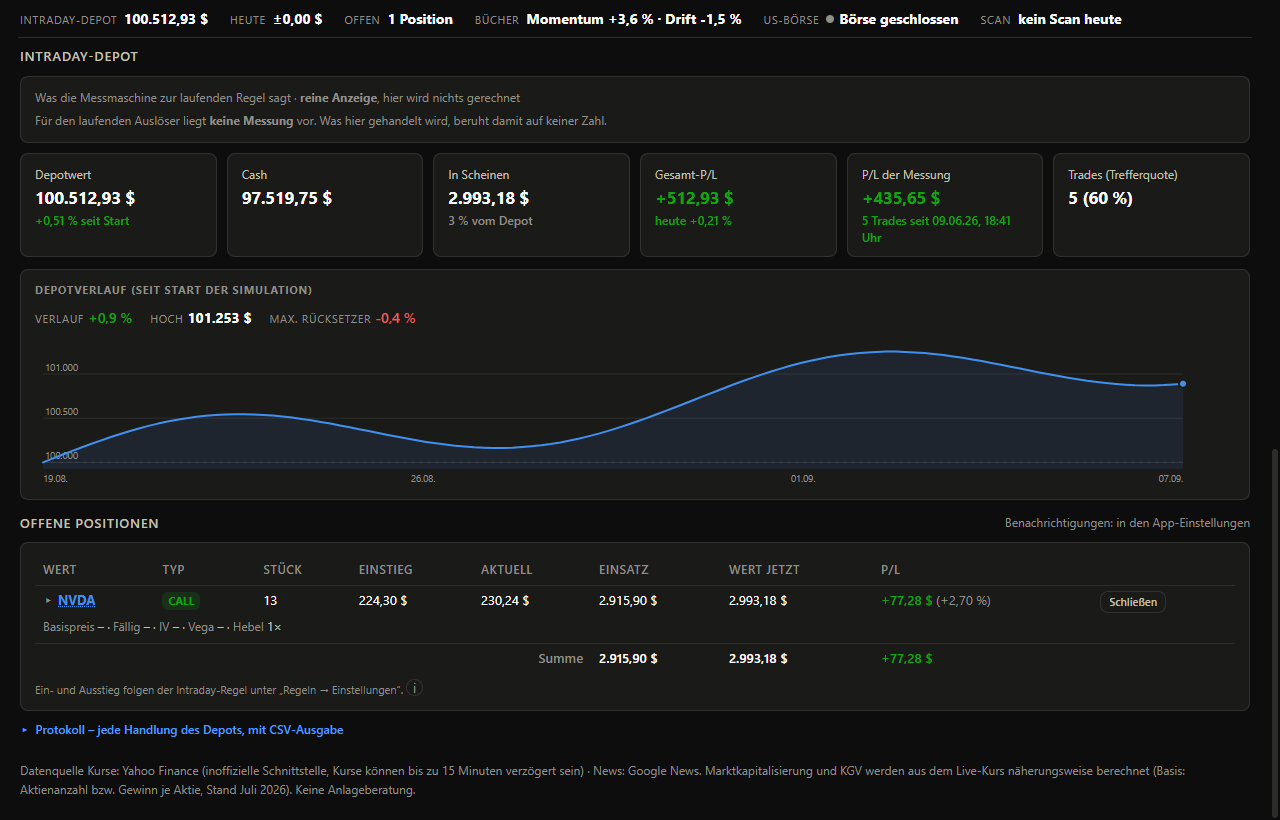
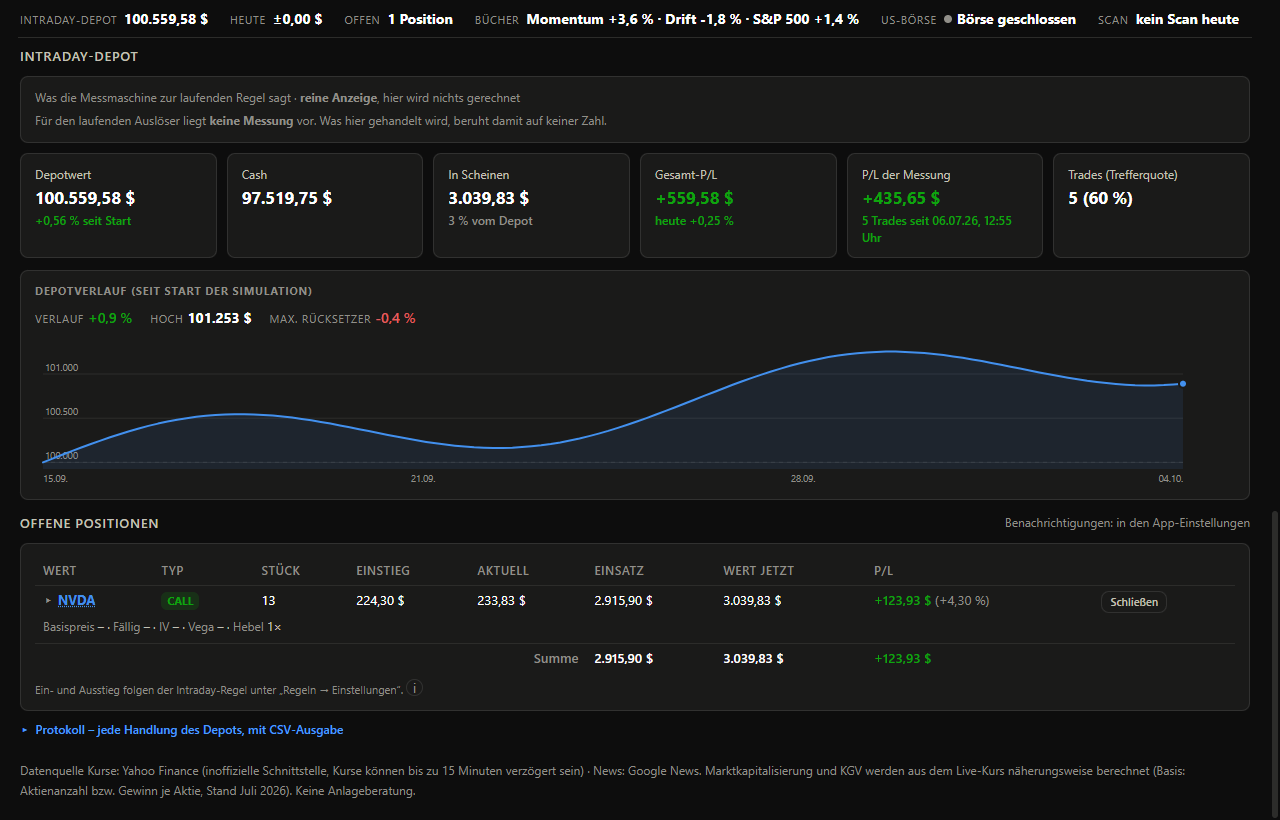
Aufnahmen erneuert (Nr. 81 Teil 4), Release-Notiz "App fertig", Kunst-Marktreihe glatt
wiki/aufnahmen/ neu erzeugt (tools/ui-struktur.js, isolierte Kunstdaten-Instanz,
Version 8.44.2): 28 Bilder und struktur.md. Gegenueber dem Stand vom 07.09.2026:
- Heute -> Ueberblick: die drei Buch-Karten tragen "Gegen den Markt" (S&P 500 als
  Gesamtertrag, mit Hinweis), das Momentum-Buch zusaetzlich den Rueckblick ueber fuenf
  Jahre; im Depotverlauf je Buch eine gestrichelte Marktlinie und die Zeilen darunter;
  im Kopf steht der S&P 500 neben den Buechern. Sichtbarer Text der Pille 4.378 ->
  6.536 Zeichen.
- Regeln -> Strategien: Rueckblick-Zeile auf der Antwort-Seite; Kapitulations-Dip mit
  "Neumessung: zurueckgewiesen".
- Markt -> Radar: nur noch ein Bild statt drei - die Gemeinschafts-Ablage fuehrt
  heute keine Eintraege (Inhalt der Quelle, kein Umbau).
Das Scoreboard steht in den Aufnahmen leer (die Kunstinstanz saet keine
Messprotokolle).

tools/kunstdepot.js: die erfundene bereinigte Marktreihe ist jetzt glatt (+1,4 % ueber
die 19 Tage) - mit dem Sprung am erfundenen Ex-Tag sah die Marktlinie aus wie ein Fehler.

Release-Notiz 2026-10-04-app-fertig.md; die Notiz zum Massstab (Nr. 73) sagt nicht mehr
"Markt ohne Ausschuettungen".

Nicht in diesem Auftrag gebaut: Ausschuettungen in den Buechern (Teil 2b) - der Weg ist
am Probeabruf bestaetigt, steht in der Uebergabe.

diff --git a/tools/kunstdepot.js b/tools/kunstdepot.js
@@ -180,19 +180,19 @@ function bauen(jetzt) {
  *  bereinigten SPY-Reihe, nicht mehr aus den im Verlauf abgelegten Tagesstaenden. Ohne
  *  diese Datei stuende die Kunstinstanz dauerhaft im Rueckfall ("Kursertrag") und
  *  keine Aufnahme zeigte den Normalfall.
- *  Gebaut wie eine echte bereinigte Reihe: derselbe erfundene Kursverlauf wie das Feld
- *  spy in bauen() (640 x (1 + 0,011 s)), dazu EINE erfundene Ausschuettung von 1,90
- *  neun Tage vor jetzt - jeder Balken davor ist um den Faktor (1 - 1,90 / Schluss am
- *  Vortag) kleiner. Ueber die 19 Tage des Kunstverlaufs steht der Markt damit als
- *  Gesamtertrag bei rund +1,4 % statt +1,1 %. Erfunden, keine Messung. */
+ *  Eine glatte erfundene Reihe: 640 x (1 + 0,014 s), ein Balken je Tag. Ueber die 19
+ *  Tage des Kunstverlaufs macht sie +1,4 % - 0,3 Prozentpunkte mehr als die im Verlauf
+ *  abgelegten Tagesstaende (640 x (1 + 0,011 s), +1,1 %). So viel macht eine
+ *  Ausschuettung aus: eine bereinigte Reihe laeuft ueber den Ex-Tag glatt weiter,
+ *  waehrend der unbereinigte Schluss um den Betrag faellt. Die Aufnahme zeigt damit
+ *  den Gesamtertrag und nicht denselben Wert wie der Rueckfall. Erfunden, keine Messung. */
 function marktReihe(jetzt) {
   var now = jetzt || Date.now();
-  function schluss(i) { return 640 * (1 + 0.011 * ((19 - i) / 19)); }   // i Tage vor jetzt; vor dem Verlauf laeuft die Gerade weiter
-  var EX = 9, faktor = 1 - 1.90 / schluss(EX + 1);
   var reihe = [];
   for (var i = 30; i >= 0; i--) {
-    /* Eine Stunde VOR dem Verlaufspunkt des Tages: jeder Punkt findet seinen Balken. */
-    reihe.push([now - i * TAG - 3600000, Math.round(schluss(i) * (i > EX ? faktor : 1) * 10000) / 10000]);
+    /* i Tage vor jetzt, eine Stunde VOR dem Verlaufspunkt des Tages: jeder Punkt findet
+     * seinen Balken. Vor dem Beginn des Verlaufs laeuft die Gerade einfach weiter. */
+    reihe.push([now - i * TAG - 3600000, Math.round(640 * (1 + 0.014 * ((19 - i) / 19)) * 10000) / 10000]);
   }
   return { at: now, reihe: reihe };
 }

diff --git a/wiki/aufnahmen/struktur.md b/wiki/aufnahmen/struktur.md
@@ -3,7 +3,7 @@ tags: [bauplan]
 ---
 # Struktur der Oberfläche — mit Aufnahmen
 
-*Erzeugt am 2026-09-07 von `tools/ui-struktur.js` aus der **laufenden** Oberfläche der Version **8.44.0** — nicht aus `index.html`. Instanz: isolierte Kunstdaten-Instanz (`tools/kunstinstanz.js`), 1280 px breit, ohne Netz; die Zahlen darin sind erfunden, die Struktur ist die echte. Wer die Oberfläche umbaut, fährt das Werkzeug danach einmal — ein Aufruf erneuert Bilder und Seite: `.\node_modules\.bin\electron.cmd tools\ui-struktur.js`.*
+*Erzeugt am 2026-10-04 von `tools/ui-struktur.js` aus der **laufenden** Oberfläche der Version **8.44.2** — nicht aus `index.html`. Instanz: isolierte Kunstdaten-Instanz (`tools/kunstinstanz.js`), 1280 px breit, ohne Netz; die Zahlen darin sind erfunden, die Struktur ist die echte. Wer die Oberfläche umbaut, fährt das Werkzeug danach einmal — ein Aufruf erneuert Bilder und Seite: `.\node_modules\.bin\electron.cmd tools\ui-struktur.js`.*
 
 **Was hier steht:** ▪ = Überschrift `h2`, · = Überschrift `h3`, ▸ = Klappe (`<details>`). Die Einrückung ist die echte Verschachtelung: eine Klappe **in** einer Klappe steht eine Stufe weiter rechts. `[#kennung]` ist die `id` des Blocks. „verborgen“ heißt: der Block steht in der Seite, ist aber ausgeblendet, bis etwas passiert (z. B. Explorer → „Kennzahlen“ erst nach dem Öffnen eines Werts).
 
@@ -21,7 +21,7 @@ Heute (data-tab="dashboard")
    │  ▸ Klappe: Positionen im Detail — Ergebnis-Drift  [in #buchDrift]
    │  · Intraday-Depot · die Kurzfrist-Regel, virtuelles Kapital  [in #buchIntraday]
    │  · Zuletzt getan – die jüngsten Handlungen aller Bücher  [in #bestandBlock]
-   │  · Depotverlauf – jedes Buch gegen sein eigenes Startkapital  [in #bestandBlock]
+   │  · Depotverlauf – jedes Buch gegen sein eigenes Startkapital, daneben der S&P 500  [in #bestandBlock]
    │  ▪ Intraday-Depot  [in #intradayBereich]
    │  · Depotverlauf (seit Start der Simulation)  [in #sub-depot]
    │  ▪ Offene Positionen  [in #sub-depot]
@@ -86,14 +86,14 @@ Werkzeuge (data-tab="werkzeuge")
 ├─ Schein-Finder (data-sub="scheine", #sub-scheine)
    │  · Schein-Finder · Kennzahlen und Risikostufe
 └─ Betrieb (data-sub="betrieb", #sub-betrieb)
-   │  ▸ Klappe: Kursarchiv  — Statuszeile: „jüngste Kerze 04.09.26, 22:00 Uhr“
+   │  ▸ Klappe: Kursarchiv  — Statuszeile: „jüngste Kerze 02.10.26, 22:00 Uhr“
    │    ▪ Kursarchiv – die App holt die feinen Kerzen selbst und legt sie ab.  [in #sub-archiv]
-   │  ▸ Klappe: Autopilot, Marktlage & Kursarchiv auffüllen  — Statuszeile: „Autopilot an · Nachtmessung 07.09.26 · Marktlage 07.09.26“
+   │  ▸ Klappe: Autopilot, Marktlage & Kursarchiv auffüllen  — Statuszeile: „Autopilot an · Nachtmessung 03.10.26 · Marktlage 04.10.26“
    │    · Autopilot & Datensammlung  [#abAutopilot]
    │    · Autopilot – die App verbessert sich selbst  [in #sub-auswertung]
    │    ▸ Klappe: Letzte Messung im Detail (Ranking, Empfehlung, Datenbasis)  [in #sub-auswertung]
-   │  ▸ Klappe: Kostenmessung Capital & Alpaca  — Statuszeile: „Runden Capital 2 · Alpaca 2 · letzte 05.09.26“
-   │  ▸ Klappe: Mittelfrist-Analyse & Bücher steuern  — Statuszeile: „Momentum an · Drift an · zuletzt geprüft 07.09.26“
+   │  ▸ Klappe: Kostenmessung Capital & Alpaca  — Statuszeile: „Runden Capital 2 · Alpaca 2 · letzte 02.10.26“
+   │  ▸ Klappe: Mittelfrist-Analyse & Bücher steuern  — Statuszeile: „Momentum an · Drift an · zuletzt geprüft 04.10.26“
    │    · Mittelfrist – Momentum & Ergebnis-Drift  [#abMittelfrist]
    │    · Momentum im Querschnitt · Aktien, keine Hebelscheine  [in #sub-mittelfrist]
    │    · Was jetzt zu halten wäre  [in #sub-mittelfrist]
@@ -135,7 +135,7 @@ Dialoge (gehören zu keinem Reiter)
 
 ### Heute → Überblick
 
-`#sub-ueberblick` · 13 Blöcke · 4378 Zeichen sichtbarer Text
+`#sub-ueberblick` · 13 Blöcke · 6536 Zeichen sichtbarer Text
 
 - ▪ Bestand  [in #bestandBlock]
 - · Momentum-Buch · stärkstes Zehntel, alle 63 Handelstage, 20 Bp je Seite  [in #buchMomentum]
@@ -144,7 +144,7 @@ Dialoge (gehören zu keinem Reiter)
 - ▸ Klappe: Positionen im Detail — Ergebnis-Drift  [in #buchDrift]
 - · Intraday-Depot · die Kurzfrist-Regel, virtuelles Kapital  [in #buchIntraday]
 - · Zuletzt getan – die jüngsten Handlungen aller Bücher  [in #bestandBlock]
-- · Depotverlauf – jedes Buch gegen sein eigenes Startkapital  [in #bestandBlock]
+- · Depotverlauf – jedes Buch gegen sein eigenes Startkapital, daneben der S&P 500  [in #bestandBlock]
 - ▪ Intraday-Depot  [in #intradayBereich]
 - · Depotverlauf (seit Start der Simulation)  [in #sub-depot]
 - ▪ Offene Positionen  [in #sub-depot]
@@ -168,7 +168,7 @@ Dialoge (gehören zu keinem Reiter)
 
 ### Markt → Überblick
 
-`#sub-marktueberblick` · 15 Blöcke · 7490 Zeichen sichtbarer Text
+`#sub-marktueberblick` · 15 Blöcke · 7539 Zeichen sichtbarer Text
 
 - ▪ Marktüberblick
 - ▪ Sektoren – nach Marktkapitalisierung gewichtet, Branchen aus den SEC-Stammdaten.
@@ -202,21 +202,19 @@ Dialoge (gehören zu keinem Reiter)
 
 ### Markt → Radar
 
-`#sub-beobachtung` · 3 Blöcke · 2674 Zeichen sichtbarer Text
+`#sub-beobachtung` · 3 Blöcke · 864 Zeichen sichtbarer Text
 
 - ▪ Spekulations-Radar – Gerüchte aus öffentlichen Quellen, dreimal täglich vor US-Eröffnung gesammelt. Gehandelt wird hiervon nichts.
 - ▪ Insider-Käufe – meldepflichtige Eigengeschäfte von Vorstand und Aufsichtsrat (SEC Form 4). Gehandelt wird hiervon nichts.
 - ▪ Vorbörsen-Lücken – Werte, die vor der US-Eröffnung deutlich anders stehen als beim gestrigen Schluss. Gehandelt wird hiervon nichts.
 
 ![[aufnahmen/markt/beobachtung-1.png]]
-![[aufnahmen/markt/beobachtung-2.png]]
-![[aufnahmen/markt/beobachtung-3.png]]
 
 ## Regeln
 
 ### Regeln → Strategien
 
-`#sub-regeln` · 8 Blöcke · 7162 Zeichen sichtbarer Text
+`#sub-regeln` · 8 Blöcke · 7451 Zeichen sichtbarer Text
 
 - · Was die App gerade tut  [in #antwortSeite]
 - · Die Strategien im Überblick
@@ -233,7 +231,7 @@ Dialoge (gehören zu keinem Reiter)
 
 ### Regeln → Einstellungen
 
-`#sub-einstellungen` · 8 Blöcke · 8680 Zeichen sichtbarer Text
+`#sub-einstellungen` · 8 Blöcke · 8943 Zeichen sichtbarer Text
 
 - · Intraday & Risiko  [#abIntraday]
 - · Intraday-Strategie  [in #sub-strategien]
@@ -272,16 +270,16 @@ Dialoge (gehören zu keinem Reiter)
 
 ### Werkzeuge → Betrieb
 
-`#sub-betrieb` · 34 Blöcke · 17300 Zeichen sichtbarer Text
+`#sub-betrieb` · 34 Blöcke · 17583 Zeichen sichtbarer Text
 
-- ▸ Klappe: Kursarchiv  — Statuszeile: „jüngste Kerze 04.09.26, 22:00 Uhr“
+- ▸ Klappe: Kursarchiv  — Statuszeile: „jüngste Kerze 02.10.26, 22:00 Uhr“
   - ▪ Kursarchiv – die App holt die feinen Kerzen selbst und legt sie ab.  [in #sub-archiv]
-- ▸ Klappe: Autopilot, Marktlage & Kursarchiv auffüllen  — Statuszeile: „Autopilot an · Nachtmessung 07.09.26 · Marktlage 07.09.26“
+- ▸ Klappe: Autopilot, Marktlage & Kursarchiv auffüllen  — Statuszeile: „Autopilot an · Nachtmessung 03.10.26 · Marktlage 04.10.26“
   - · Autopilot & Datensammlung  [#abAutopilot]
   - · Autopilot – die App verbessert sich selbst  [in #sub-auswertung]
   - ▸ Klappe: Letzte Messung im Detail (Ranking, Empfehlung, Datenbasis)  [in #sub-auswertung]
-- ▸ Klappe: Kostenmessung Capital & Alpaca  — Statuszeile: „Runden Capital 2 · Alpaca 2 · letzte 05.09.26“
-- ▸ Klappe: Mittelfrist-Analyse & Bücher steuern  — Statuszeile: „Momentum an · Drift an · zuletzt geprüft 07.09.26“
+- ▸ Klappe: Kostenmessung Capital & Alpaca  — Statuszeile: „Runden Capital 2 · Alpaca 2 · letzte 02.10.26“
+- ▸ Klappe: Mittelfrist-Analyse & Bücher steuern  — Statuszeile: „Momentum an · Drift an · zuletzt geprüft 04.10.26“
   - · Mittelfrist – Momentum & Ergebnis-Drift  [#abMittelfrist]
   - · Momentum im Querschnitt · Aktien, keine Hebelscheine  [in #sub-mittelfrist]
   - · Was jetzt zu halten wäre  [in #sub-mittelfrist]

diff --git a/release-notizen/2026-10-04-app-fertig.md b/release-notizen/2026-10-04-app-fertig.md
@@ -1,0 +1,9 @@
+# Der Maßstab zählt die Ausschüttungen des Marktes mit, der Rückblick steht am Momentum-Buch, und das Scoreboard zeigt Überholtes als überholt
+
+Der S&P 500 neben jedem Buch ist jetzt der Ertrag, den ein Anleger im Indexfonds wirklich bekommt – **mit** Ausschüttungen (beim SPY über die letzten sechs Monate +17,39 % statt +16,80 %); die Bücher selbst buchen noch keine Ausschüttungen, und genau das steht an jeder Stelle dabei: „Markt mit, Buch ohne Ausschüttungen – der Vergleich ist um die Ausschüttungen des Buchs zu streng". Fehlt die dafür nötige Kursreihe oder ist sie zu alt, zeigt die App sichtbar wieder den reinen Kursertrag und sagt, warum.
+
+An der Karte des Momentum-Buchs (Heute → Bestand) und auf der Seite Regeln → Strategien steht neu der **Rückblick über fünf Jahre**: die Regel des Buchs auf dem breiten Markt brachte +65,2 % gegen +81,2 % des S&P 500 – nicht geschlagen; je nach Starttag lag das Buch in 41 von 63 Fällen vorn, bei einem größten Rückschlag von −40,2 % gegen −24,5 %. Gemessen ist dabei der breite Markt (515 bis 923 Werte), nicht der engere Korb, den die App handelt.
+
+Im Scoreboard (Werkzeuge → Betrieb) steht das alte Messprotokoll des Kapitulations-Dips jetzt am Ende der Tabelle unter dem Kopf „Überholt durch Neumessung 03.10.2026 – in der behaupteten Größe zurückgewiesen", mit Fundstelle; es bleibt vollständig nachlesbar. Die Erklärtexte hinter den i-Knöpfen (Nacht-Messung, Experten-Einstellungen, Backtest) zählen den Kapitulations-Dip nicht mehr zu den „gemessenen Strategien", sondern sagen den Stand: neu gemessen und zurückgewiesen, per Voreinstellung aus.
+
+Alles bleibt Simulation mit virtuellem Kapital, keine Anlageberatung.

diff --git a/wiki/oberflaeche.md b/wiki/oberflaeche.md
@@ -285,8 +285,13 @@ Wilhelms Regel (entscheide.md, „Richtung des Projekts"): echtes Geld nur für 
   `berichte.js` steht keine eigene Prozentrechnung für ein Buch mehr (92.4); **kein zweiter Rechenweg für den Markt** (92.6): sechs
   Aufrufe von `Massstab.vergleich`, fünf mit der bereinigten Reihe aus einer Quelle, der Nasdaq als Kursindex; außerhalb von
   `massstab.js` liest niemand den abgelegten Marktstand; der Wortlaut der Beschriftung steht nur in `massstab.js`.
-- **Kunstinstanz:** `tools/kunstdepot.js` `marktReihe()` sät eine erfundene bereinigte Reihe mit einer Ausschüttung
-  (`drift_markt.json` im Test-Store) – die Aufnahmen zeigen den Normalfall (Gesamtertrag), nicht den Rückfall.
+- **Kunstinstanz:** `tools/kunstdepot.js` `marktReihe()` sät eine erfundene bereinigte Reihe (`drift_markt.json` im Test-Store,
+  glatt, +1,4 % über die 19 Tage des Kunstverlaufs gegen +1,1 % der abgelegten Tagesstände) – die Aufnahmen zeigen den
+  Normalfall (Gesamtertrag), nicht den Rückfall.
+- **Aufnahmen vom 04.10.2026** (`aufnahmen/`, nach Nr. 71, 73 und 81 neu erzeugt): `heute/ueberblick-1` zeigt die drei
+  Buch-Karten mit „Gegen den Markt" und am Momentum-Buch den Rückblick, `heute/ueberblick-2` den Depotverlauf mit den
+  gestrichelten Marktlinien, `regeln/regeln-1` die Antwort-Seite mit der Rückblick-Zeile. Das Scoreboard steht in den Aufnahmen
+  leer (die Kunstinstanz sät keine Messprotokolle); den Kopf über dem überholten Protokoll belegt der Textauszug in der Übergabe.
 
 ## 6c. Der Rückblick am Momentum-Buch (seit 04.10.2026, Auftrag Nr. 81)
 

diff --git a/release-notizen/2026-10-04-massstab.md b/release-notizen/2026-10-04-massstab.md
@@ -2,4 +2,4 @@
 
 Bisher zeigte die App jedes Buch nur gegen sein eigenes Startkapital. Jetzt steht daneben, was der S&P 500 im selben Zeitraum gemacht hat, und der Abstand in Prozentpunkten – im Kopf kurz („Momentum +1,2 % · Drift −0,4 % · S&P 500 +2,0 %"), auf jeder Buch-Karte und unter dem Depotverlauf ausführlich mit Datum, im Depotverlauf als gestrichelte Linie zu jedem Buch. Das Intraday-Depot wird mit demselben Maßstab verglichen (vorher: Kursindex unter der Überschrift „Seit Depot-Start", obwohl der Verlauf nur etwa zwei Wochen zurückreicht).
 
-Gerechnet wird nach Kosten und immer über dieselben Tage für Buch und Markt; fehlt ein Marktstand, steht „Markt: noch kein Stand" statt einer Null. Wichtig zur Einordnung: der Markt ist der SPY-Kurs **ohne** Ausschüttungen, und auch die Bücher buchen keine Ausschüttungen – beide Seiten sind gleich gebaut, aber der Vergleich ist damit noch nicht der S&P 500 „mit Dividenden" (Unterschied beim SPY zuletzt 0,25 % je Quartal, gemessen an der Ausschüttung vom 18.09.2026).
+Gerechnet wird nach Kosten und immer über dieselben Tage für Buch und Markt; fehlt ein Marktstand, steht „Markt: noch kein Stand" statt einer Null. Wichtig zur Einordnung (berichtigt mit dem Folgeauftrag vom selben Tag, siehe `2026-10-04-app-fertig.md`): der Markt ist seither der SPY **mit** Ausschüttungen; die Bücher buchen keine – der Vergleich ist damit um die Ausschüttungen des Buchs zu streng (beim SPY zuletzt 0,25 % je Quartal, gemessen an der Ausschüttung vom 18.09.2026).
